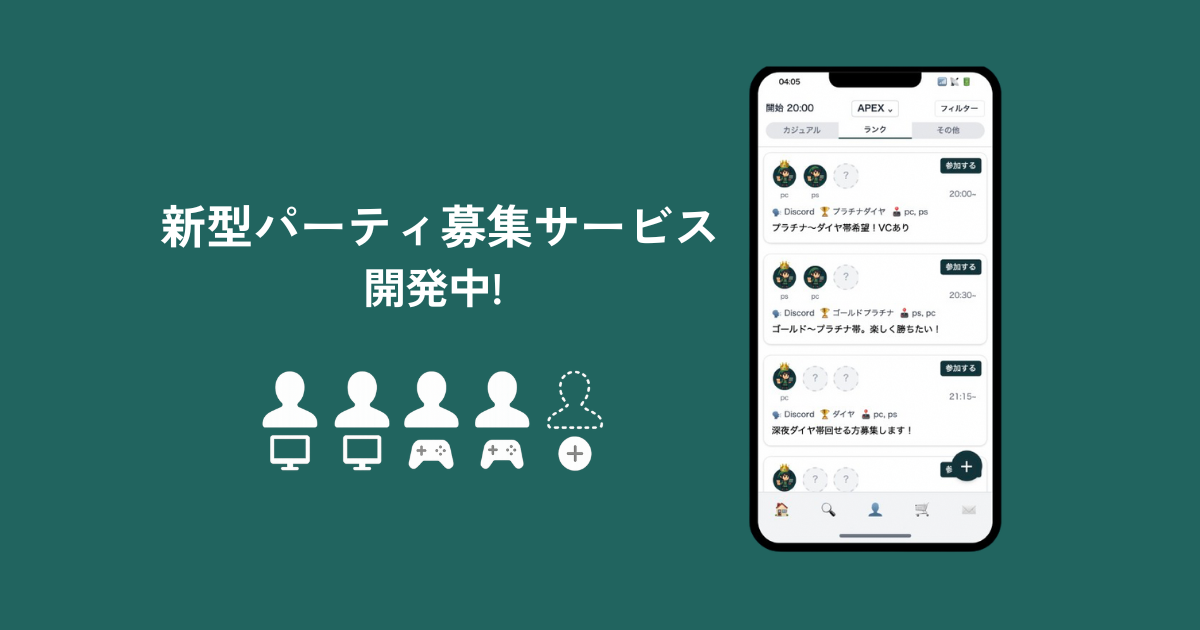
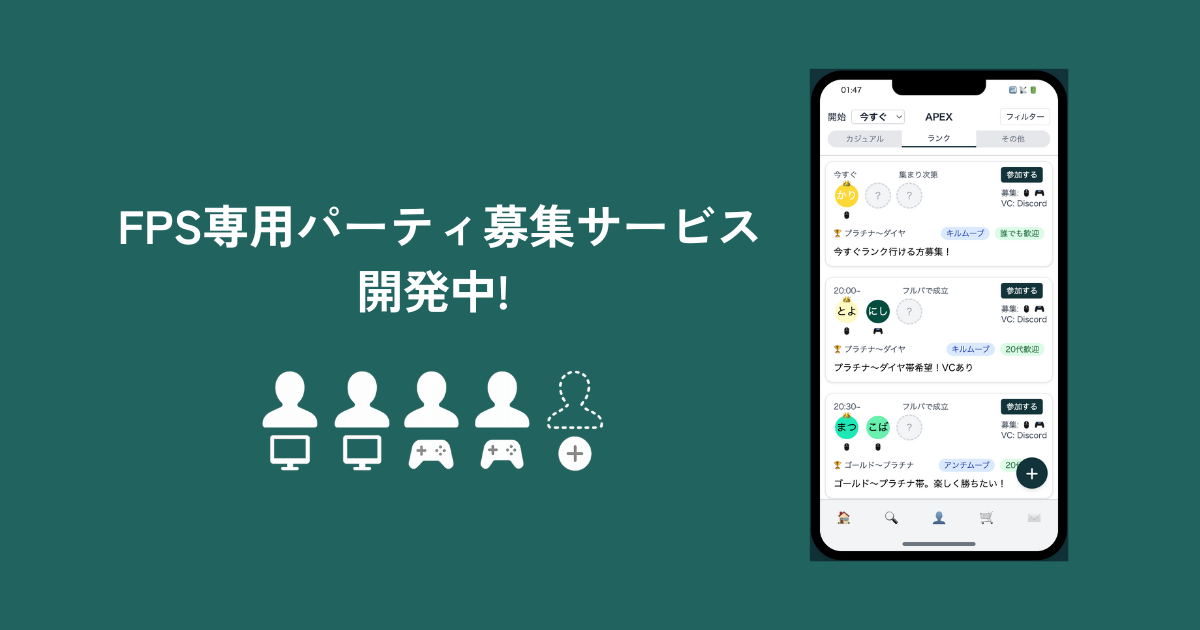
fix:FPS専用

Changed region(s): [[0.0925, 0.0905, 0.8942, 0.9048], [0.2775, 0.4222, 0.4317, 0.5127]]

diff --git a/src/app/party/search/page.tsx b/src/app/party/search/page.tsx
@@ -4,6 +4,7 @@ import { useEffect } from "react";
 import { useRouter } from "next/navigation";
 import { useState } from "react";
 import { usePartyStore } from "@/lib/store";
+import { useTimeFilterStore } from "@/lib/store";
 import { PartyCard } from "@/components/PartyCard";
 import { useModeStore } from "@/lib/store";
 import SmartphoneLayout from "@/components/SmartphoneLayout";
@@ -16,6 +17,9 @@ export default function PartySearchPage() {
   // Matched party and error handling
   const matchedPartyId = usePartyStore((state) => state.matchedPartyId);
 
+  const selectedTimeFilter = useTimeFilterStore((state) => state.selectedTimeFilter);
+  const setSelectedTimeFilter = useTimeFilterStore((state) => state.setSelectedTimeFilter);
+
 
   return (
     <SmartphoneLayout>
@@ -23,10 +27,29 @@ export default function PartySearchPage() {
         {/* 上部ヘッダー */}
         <div className="p-3 border-b border-gray-300 text-sm text-gray-800 font-medium">
           <div className="flex justify-between items-center mb-2 relative">
-            <span>開始 20:00</span>
-            <button className="absolute left-1/2 -translate-x-1/2 text-sm font-semibold text-gray-800 border border-gray-300 rounded px-2 py-0.5 bg-white shadow-sm hover:bg-gray-50">
-              APEX ⌄
-            </button>
+            <div className="flex items-center gap-2">
+              <span className="text-sm text-gray-800">開始</span>
+              <select
+                value={selectedTimeFilter}
+                onChange={(e) => {
+                  setSelectedTimeFilter(e.target.value);
+                }}
+                className="text-sm font-semibold text-gray-800 border border-gray-300 rounded px-2 py-0.5 bg-white shadow-sm hover:bg-gray-50"
+              >
+                <option value="now">今すぐ</option>
+                {Array.from({ length: 96 }).map((_, i) => {
+                  const hours = String(Math.floor(i * 15 / 60)).padStart(2, "0");
+                  const minutes = String((i * 15) % 60).padStart(2, "0");
+                  const label = `${hours}:${minutes}`;
+                  return (
+                    <option key={label} value={label}>{label}</option>
+                  );
+                })}
+              </select>
+            </div>
+            <div className="absolute left-1/2 -translate-x-1/2 text-sm font-semibold text-gray-800">
+              APEX
+            </div>
             <button className="px-2 py-1 text-xs border rounded">フィルター</button>
           </div>
           <div className="flex bg-gray-200 rounded-full overflow-hidden">
@@ -55,7 +78,45 @@ export default function PartySearchPage() {
                 "ランク": "rank",
                 "その他": "other",
               };
-              return p.type === categoryMap[selectedCategory];
+
+              const isMatchingCategory = p.type === categoryMap[selectedCategory];
+
+              if (selectedTimeFilter === "now") {
+                return isMatchingCategory;
+              }
+
+              const partyTime = p.startAt ? new Date(p.startAt) : null;
+              if (!partyTime) return false;
+
+              const [h, m] = selectedTimeFilter.split(":").map(Number);
+              const selectedMinutes = h * 60 + m;
+
+              const partyMinutes = partyTime.getHours() * 60 + partyTime.getMinutes();
+
+              return (
+                isMatchingCategory &&
+                partyMinutes >= selectedMinutes &&
+                partyMinutes <= selectedMinutes + 15
+              );
+            })
+            .sort((a, b) => {
+              const now = new Date();
+              const getTime = (party: any) => {
+                if (!party.startAt) return 0;
+                return new Date(party.startAt).getTime();
+              };
+
+              if (selectedTimeFilter === "now") {
+                // "今すぐ" を優先、次に時刻順
+                const aIsNow = !a.startAt;
+                const bIsNow = !b.startAt;
+                if (aIsNow && !bIsNow) return -1;
+                if (!aIsNow && bIsNow) return 1;
+                return getTime(a) - getTime(b);
+              } else {
+                // 指定時刻順
+                return getTime(a) - getTime(b);
+              }
             })
             .map((party) => (
               <PartyCard key={party.id} party={party} showJoinButton />

diff --git a/src/components/PartyCard.tsx b/src/components/PartyCard.tsx
@@ -45,11 +45,13 @@ export const PartyCard = ({
 
         <div className="flex text-xs text-gray-600 mb-1 space-x-16">
           <div>
-            {new Date(party.startAt).toLocaleTimeString('ja-JP', {
-              hour: '2-digit',
-              minute: '2-digit',
-              hour12: false,
-            })}~
+            {party.startAt
+              ? `${new Date(party.startAt).toLocaleTimeString('ja-JP', {
+                  hour: '2-digit',
+                  minute: '2-digit',
+                  hour12: false,
+                })}~`
+              : '今すぐ'}
           </div>
           <div className="font-medium">
             {party.requireFull ? 'フルパで成立' : '集まり次第'}

diff --git a/src/lib/store.ts b/src/lib/store.ts
@@ -100,6 +100,17 @@ export const usePartyStore = create<PartyStore>((set, get) => ({
   setMatchedPartyId: (id) => set({ matchedPartyId: id }),
 }));
 
+// --- Time Filter Store ---
+type TimeFilterStore = {
+  selectedTimeFilter: string;
+  setSelectedTimeFilter: (value: string) => void;
+};
+
+export const useTimeFilterStore = create<TimeFilterStore>((set) => ({
+  selectedTimeFilter: "now",
+  setSelectedTimeFilter: (value) => set({ selectedTimeFilter: value }),
+}));
+
 type ModeStore = {
   selectedMode: Mode;
   setSelectedMode: (mode: Mode) => void;
